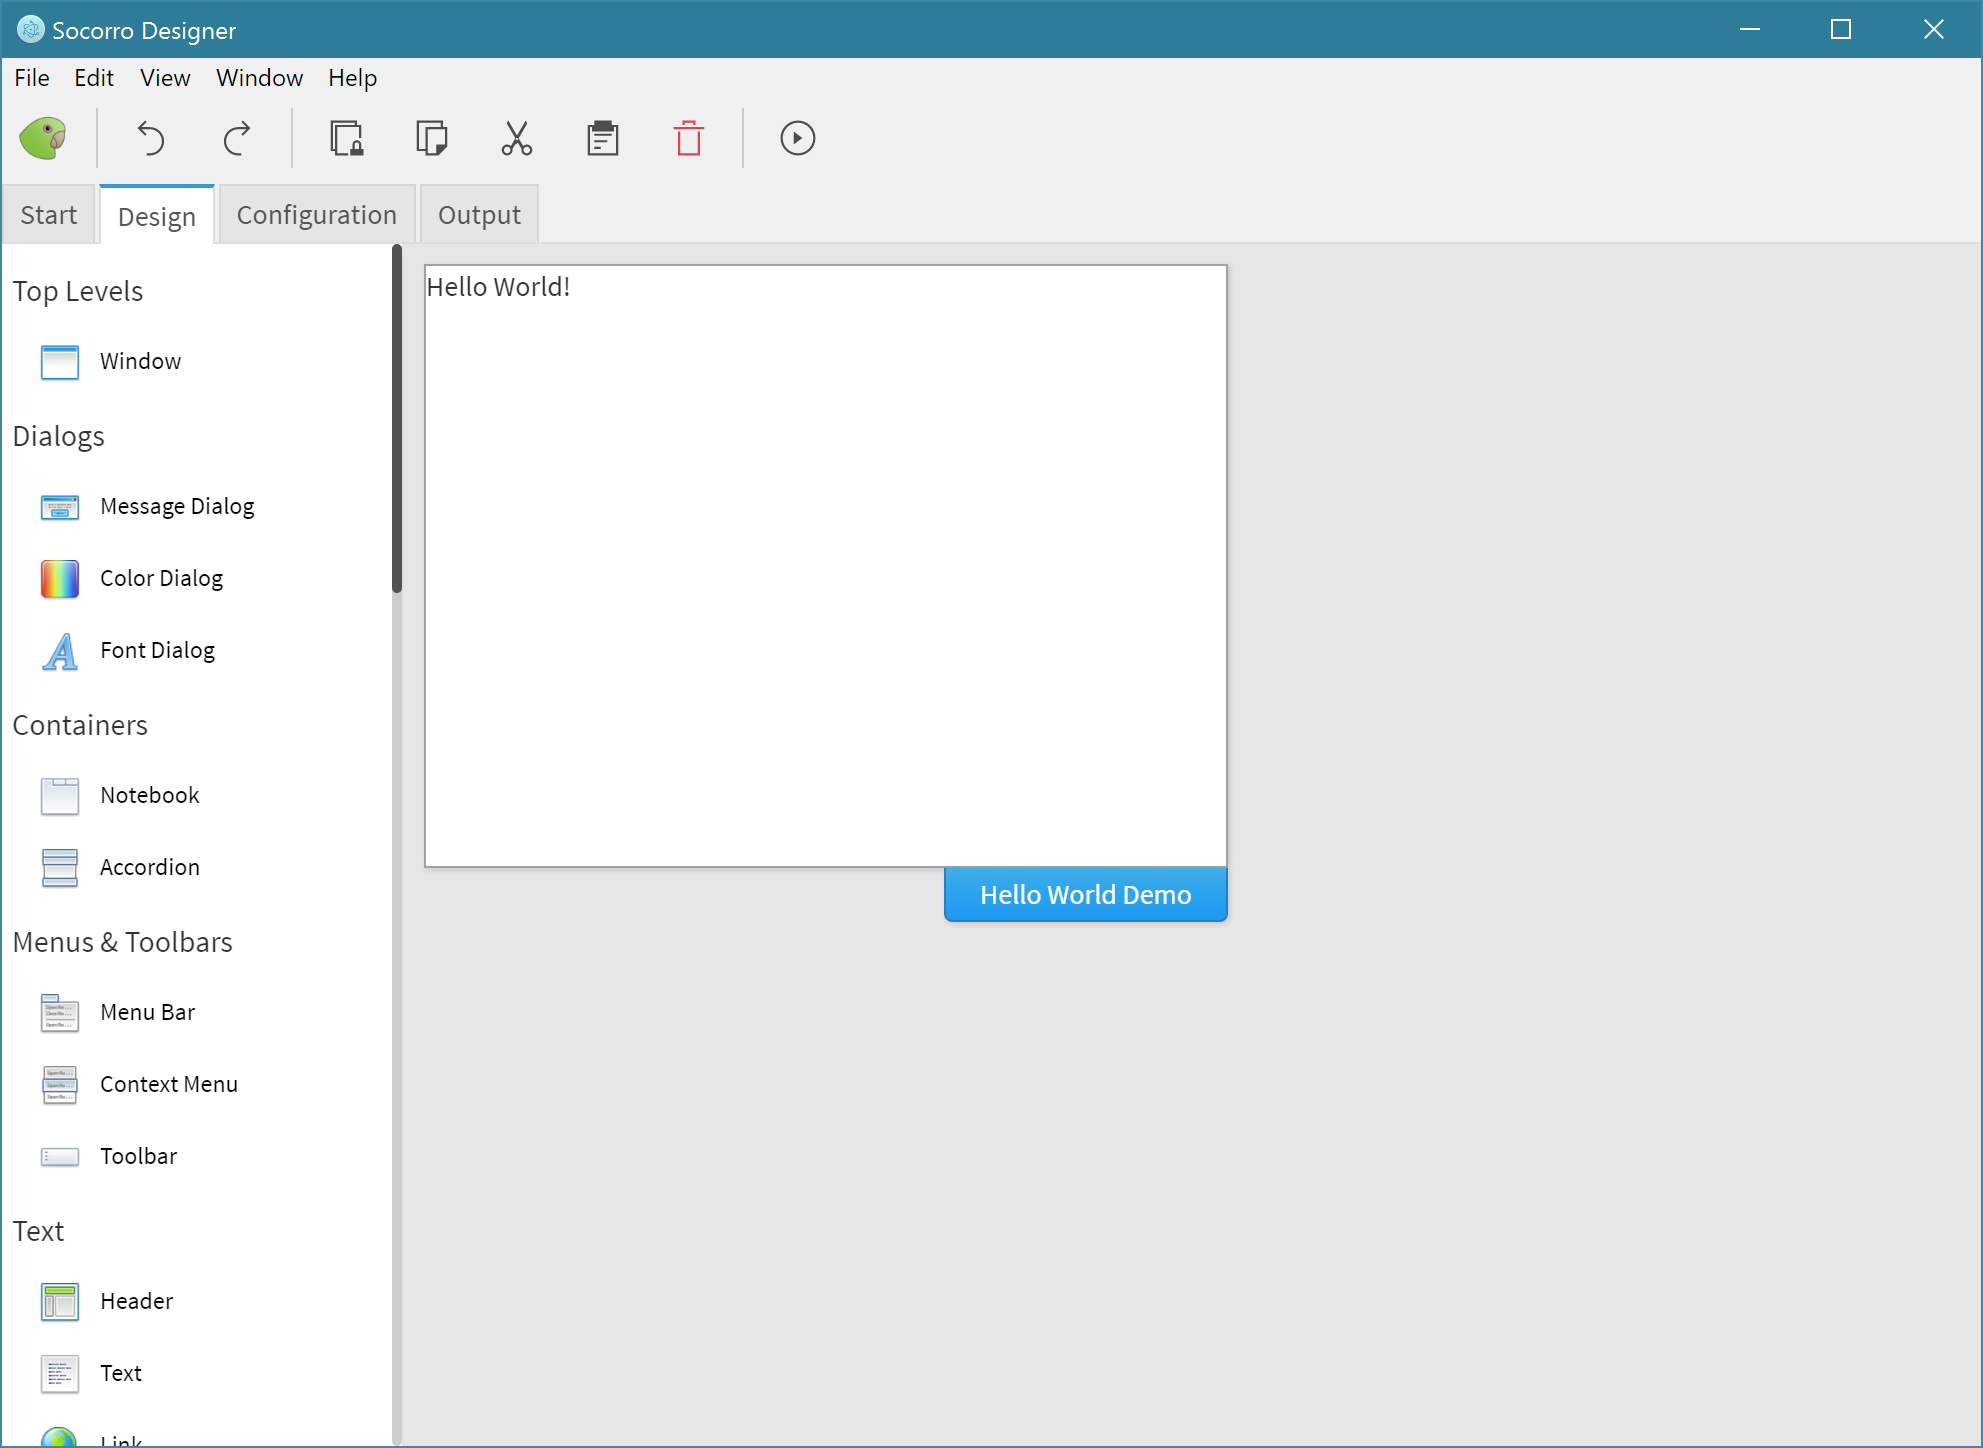
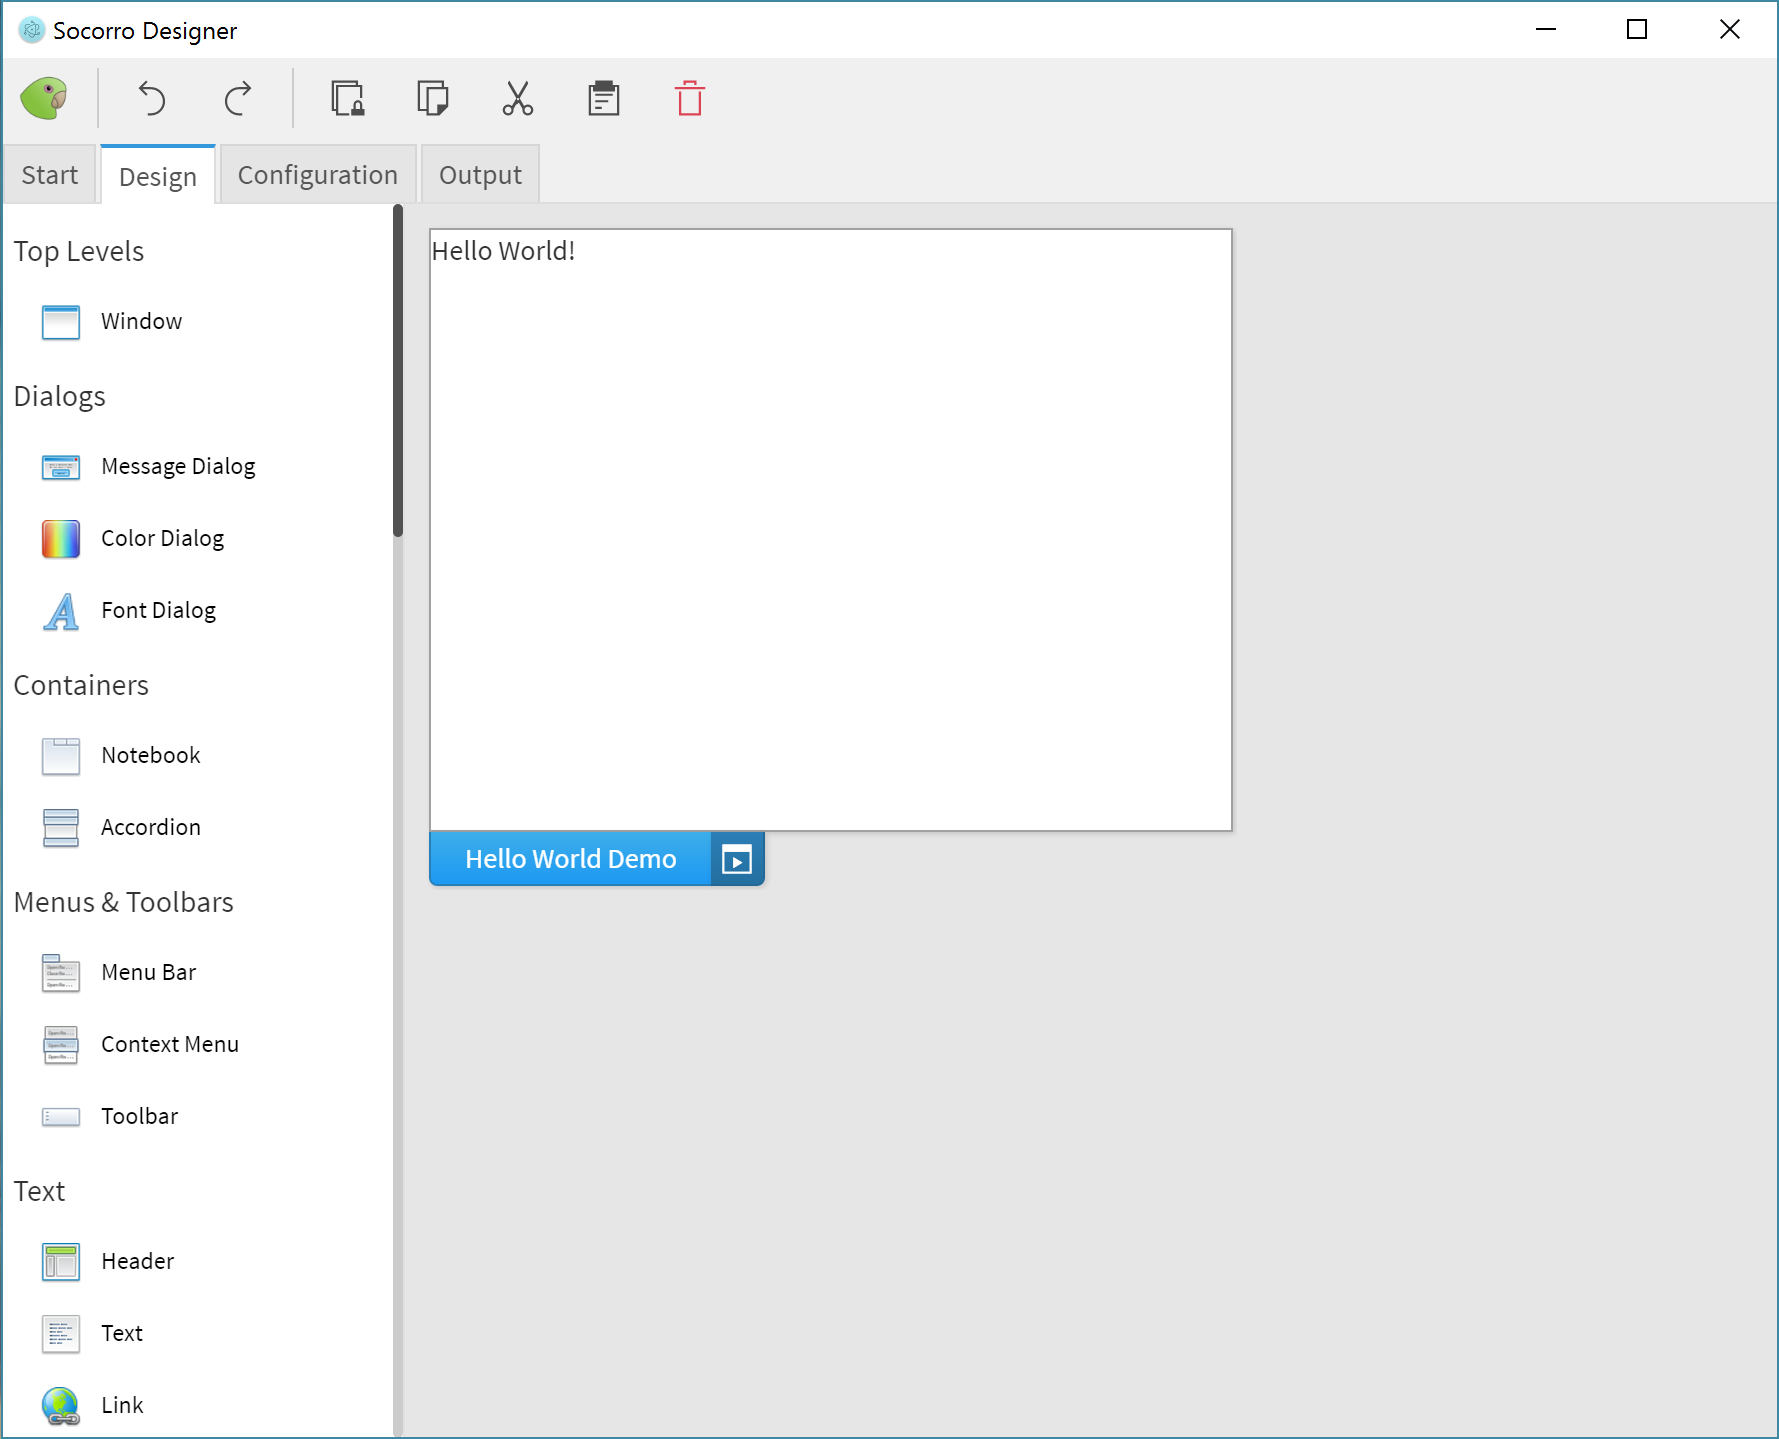
Updated start page and README.md

Changed region(s): [[0.0, 0.0, 1.0, 1.0]]

diff --git a/screens/designer.html b/screens/designer.html
@@ -54,7 +54,7 @@
           
           <h5>Editors</h5>
           <a class="palette_button" href="#" role="button"><img class="img_palette_button" src="../icons/FatCow_Icons32x32/document_notes.png"/>Text Edit</a>       
-          <a class="palette_button" href="#" role="button"><img class="img_palette_button" src="../icons/FatCow_Icons32x32/document_image.png"/>Rich Text Edit</a>  
+          <a class="palette_button" href="#" role="button"><img class="img_palette_button" src="../icons/FatCow_Icons32x32/script_code.png"/>Code Edit</a>
 
           <h5>Buttons</h5>
           <a class="palette_button" href="#" role="button"><img class="img_palette_button" src="../icons/FatCow_Icons32x32/button_default.png"/>Button</a>
@@ -74,11 +74,20 @@
           <a class="palette_button" href="#" role="button"><img class="img_palette_button" src="../icons/FatCow_Icons32x32/resource_usage.png"/>Meter</a>       
           <a class="palette_button" href="#" role="button"><img class="img_palette_button" src="../icons/FatCow_Icons32x32/star.png"/>Rating</a>   
 
+          <h5>Data</h5>
+          <a class="palette_button" href="#" role="button"><img class="img_palette_button" src="../icons/FatCow_Icons32x32/preferences.png"/>Property Panel</a>  
+          
+          <h5>Lists</h5>
+          <a class="palette_button" href="#" role="button"><img class="img_palette_button" src="../icons/FatCow_Icons32x32/combo_box_light_blue.png"/>Combo Box</a> 
+          <a class="palette_button" href="#" role="button"><img class="img_palette_button" src="../icons/FatCow_Icons32x32/list_box.png"/>List</a> 
+          <!-- A list like the widget list in the design tab -->
+          <a class="palette_button" href="#" role="button"><img class="img_palette_button" src="../icons/FatCow_Icons32x32/category.png"/>Category List</a> 
+
           <h5>Forms</h5>
           <a class="palette_button" href="#" role="button"><img class="img_palette_button" src="../icons/FatCow_Icons32x32/form.png"/>Form</a>
           <a class="palette_button" href="#" role="button"><img class="img_palette_button" src="../icons/FatCow_Icons32x32/button_default.png"/>Button</a>
           <a class="palette_button" href="#" role="button"><img class="img_palette_button" src="../icons/FatCow_Icons32x32/cancel.png"/>Reset Button</a>
-          <a class="palette_button" href="#" role="button"><img class="img_palette_button" src="../icons/FatCow_Icons32x32/button_default.png"/>Submit Button</a>
+          <a class="palette_button" href="#" role="button"><img class="img_palette_button" src="../icons/FatCow_Icons32x32/accept_button.png"/>Submit Button</a>
           <a class="palette_button" href="#" role="button"><img class="img_palette_button" src="../icons/FatCow_Icons32x32/check_box_check.png"/>Checkbox Input</a>
           <a class="palette_button" href="#" role="button"><img class="img_palette_button" src="../icons/FatCow_Icons32x32/radiobutton_marked.png"/>Radio Button Input</a>
           <a class="palette_button" href="#" role="button"><img class="img_palette_button" src="../icons/FatCow_Icons32x32/spectrum.png"/>Color Input</a>
@@ -100,13 +109,13 @@
 
       <div class="right_pane">
         <div class="dsWidgetContainer">
-          <div class="dsWidgetContainer">
             <div class="dsWidgetBorder">
              <div class="dsWindow">
                <p class="dsP">Hello World!</p>
              </div>
             </div>
           <div class="dsWidgetNameTag">Hello World Demo</div>
+          <div class="dsWidgetRunButton"><img class="img_run_button" src="../icons/breeze-dark/actions/22/system-run.svg"/></div>
         </div>
       </div>
     </div>
@@ -125,7 +134,6 @@
     <script>
         // global state object 
         var state = parent.state;
-        var loc = GetParameter("loc").toString();
         window.onclick = parent.global_click;
     </script>
   </body>

diff --git a/css/style.css b/css/style.css
@@ -205,7 +205,6 @@ iframe {
     position: absolute;
     box-shadow: inset 0px 1px 0px 0px rgba(255,255,255,0.1);
     background: linear-gradient(to bottom, #3daee9 0%, #1d99f3 100%);
-    background-color: #37a1d5;
     border-radius: 3px;
     border: 0px solid #5193b3;
     display: inline-block;
@@ -605,6 +604,7 @@ pre {
     padding: 10px;
     border-left: 1px solid rgba(0,0,0,.025);
     background-color: rgba(0,0,0,.1);
+    overflow: auto;
 }
 
 .palette_button {    
@@ -659,7 +659,14 @@ h5 {
 /* Widget Styles */
 .dsWidgetContainer {  
     display: block;
-    position: absolute;
+    position: relative;
+    margin-bottom: 10px;
+
+    /* Widget size + (border size*2) */
+    width: calc(400px + 2px);
+    padding: 2px;    
+    box-sizing: content-box;
+    overflow:auto;
 }
 
 .dsWidgetBorder { 
@@ -671,26 +678,71 @@ h5 {
     background: linear-gradient(to bottom, #3daee9 0%, #1d99f3 100%);
     border: 1px solid #2980b9;  
     border-top: 0px solid #2980b9;  
+    border-right: 0px solid #ac3d48;  
     color: white;
     width: 33.33%;
-    float: right;
-    box-sizing: content-box;
+    float: left;
     height: 20px;
     padding: 3px;
     text-align: center;
     border-top-left-radius: 0px;
     border-top-right-radius: 0px;
     border-bottom-left-radius: 4px;
+    border-bottom-right-radius: 0px;
+    box-shadow: 1px 1px 4px 0px rgba(0,0,0,0.15);   
+    box-sizing: content-box;
+}
+
+.dsWidgetRunButton {
+    background: linear-gradient(to bottom, #2b7fb7 0%, #246fa0 100%);
+    border: 1px solid #226997;  
+    border-top: 0px solid transparent;  
+    border-left: 0px solid transparent;  
+    color: white;
+    width: 20px;
+    float: left;
+    height: 20px;
+    padding: 3px;
+    text-align: center;
+    border-top-left-radius: 0px;
+    border-top-right-radius: 0px;
+    border-bottom-left-radius: 0px;
     border-bottom-right-radius: 4px;
-    box-shadow: 1px 1px 4px 0px rgba(0,0,0,0.15);
+    box-shadow: 1px 1px 4px 0px rgba(0,0,0,0.15);   
+    box-sizing: content-box;
+}
+
+.dsWidgetRunButton:hover { 
+    color: #ffffff;
+    background: linear-gradient(to bottom, #226b9b 0%, #20628d 100%);
+    border: 1px solid #1b557b;  
+    border-top: 0px solid transparent;  
+    border-left: 0px solid transparent;  
+    text-decoration: none;
+}
+
+.dsWidgetRunButton:active { 
+    color: #ffffff;
+    background: linear-gradient(to bottom, #1b547a 0%, #184b6d 100%);
+    border: 1px solid #133f5b;  
+    border-top: 0px solid transparent;  
+    border-left: 0px solid transparent;  
+    text-decoration: none;
 }
 
 .dsWindow {
     background-color: white;
-    width: 400px;
     height: 300px;
+    width: 400px;
 }
 
 .dsP {
     margin: 0px;
+}
+
+.img_run_button {
+    display: inline-block;
+    width: 20px;
+    height: 20px;
+    margin: 0px 0px 2px 0px;
 }

diff --git a/screens/start.html b/screens/start.html
@@ -36,25 +36,25 @@
       <div class="row">
         <div class="col-md-4 template">
           <img class="imgTemplate" src="../icons/breeze/mimetypes/32/application-x-zerosize.svg"/>
-          <h3>Blank Page</h3>
-          <p>An empty page and nothing else</p>
+          <h3>Empty Project</h3>
+          <p>A clean slate to work with</p>
           <p class="button_holder"><a class="create_button" href="#" role="button">Create</a></p>
         </div>
         <div class="col-md-4 template">
           <img class="imgTemplate" src="../icons/breeze/categories/32/applications-internet.svg"/>
           <h3>Hello World</h3>
-          <p>A page that says "Hello World"</p>
+          <p>A page that says "Hello World!"</p>
           <p class="button_holder"><a class="create_button" href="#" role="button">Create</a></p>
         </div>
         <div class="col-md-4 template">
-          <img class="imgTemplate" src="../icons/breeze/mimetypes/64/application-x-kvtml.svg"/>
-          <h3>Jumbotron</h3>
-          <p>A simple page with a jumbotron and a navigation bar</p>
+          <img class="imgTemplate" src="../icons/breeze/apps/48/systemsettings.svg"/>
+          <h3>Settings</h3>
+          <p>A settings panel with toggles and other inputs</p>
           <p class="button_holder"><a class="create_button" href="#" role="button">Create</a></p>
         </div>
         <div class="col-md-4 template">
           <img class="imgTemplate" src="../icons/breeze/mimetypes/22/key.svg"/>
-          <h3>Login Page</h3>
+          <h3>Login</h3>
           <p>A custom login form</p>
           <p class="button_holder"><a class="create_button" href="#" role="button">Create</a></p>
         </div>
@@ -72,8 +72,14 @@
         </div>
         <div class="col-md-4 template">
           <img class="imgTemplate" src="../icons/breeze/apps/48/author.svg"/>
-          <h3>Blog</h3>
-          <p>A basic blog</p>
+          <h3>Text Editor</h3>
+          <p>A basic text editor</p>
+          <p class="button_holder"><a class="create_button" href="#" role="button">Create</a></p>
+        </div>   
+        <div class="col-md-4 template">
+          <img class="imgTemplate" src="../icons/breeze/apps/48/kolourpaint.svg"/>
+          <h3>Paint</h3>
+          <p>A canvas with a brush that changes color</p>
           <p class="button_holder"><a class="create_button" href="#" role="button">Create</a></p>
         </div>
       </div>

diff --git a/index.html b/index.html
@@ -97,9 +97,6 @@
       <a class="app_toolbar_button" href="#" role="button"><img class="img_app_toolbar" src="icons/breeze/actions/22/edit-cut.svg"/></a>
       <a class="app_toolbar_button" href="#" role="button"><img class="img_app_toolbar" src="icons/breeze/actions/22/edit-paste.svg"/></a>
       <a class="app_toolbar_button" href="#" role="button"><img class="img_app_toolbar" src="icons/breeze/actions/22/edit-delete.svg"/></a>
-
-      <div class="app_toolbar_sep"></div>
-      <a class="app_toolbar_button" href="#" role="button"><img class="img_app_toolbar" src="icons/breeze/actions/22/media-playback-start.svg"/></a>
     </div>
     <div class="container fill">
         <ul class="nav nav-tabs">

diff --git a/electron_init.js b/electron_init.js
@@ -21,7 +21,7 @@ function createWindow () {
 
   // Set window size
   win.setSize(900,725)
- // win.setMenu(null)
+  //win.setMenu(null)
   // Emitted when the window is closed.
   win.on('closed', () => {
     // Dereference the window object, usually you would store windows

diff --git a/README.md b/README.md
@@ -1,9 +1,10 @@
 **Socorro Designer**
 ===========
-A simple, cross platform designer for HTML5 apps, inspired by Glade Interface Designer.
+Developing an HTML app is a pain - requiring a multitude of libraries, hacks, and layers of tags just to set up the GUI. Socorro Designer helps alleviate that problem by helping you focus on the design and generating clean HTML5 code with connected javascript events when you're finished designing. It's a simple, cross platform user interface designer for HTML5 apps, inspired by Glade Interface Designer and Microsoft Blend.
 ------------------------------------------------------------------
 
-This is a project I just started. Except for a few basic features, *it does not work yet*, but its development is active and it should reach beta stage by July.
+This is a project I just started. Except for a few basic features, *it does not work yet*, but its development is active and it should reach beta stage by December
 ![Socorro Start Page](https://raw.githubusercontent.com/ianmartinez/Socorro-IDE/master/start.png "Start Page")
+![Socorro Main Menu](https://raw.githubusercontent.com/ianmartinez/Socorro-IDE/master/main_menu.png "Main Menu")
 ![Socorro Design Page](https://raw.githubusercontent.com/ianmartinez/Socorro-IDE/master/design.png "Design Page")
 ![Socorro Edit Page](https://raw.githubusercontent.com/ianmartinez/Socorro-IDE/master/edit.png "Edit Page")
